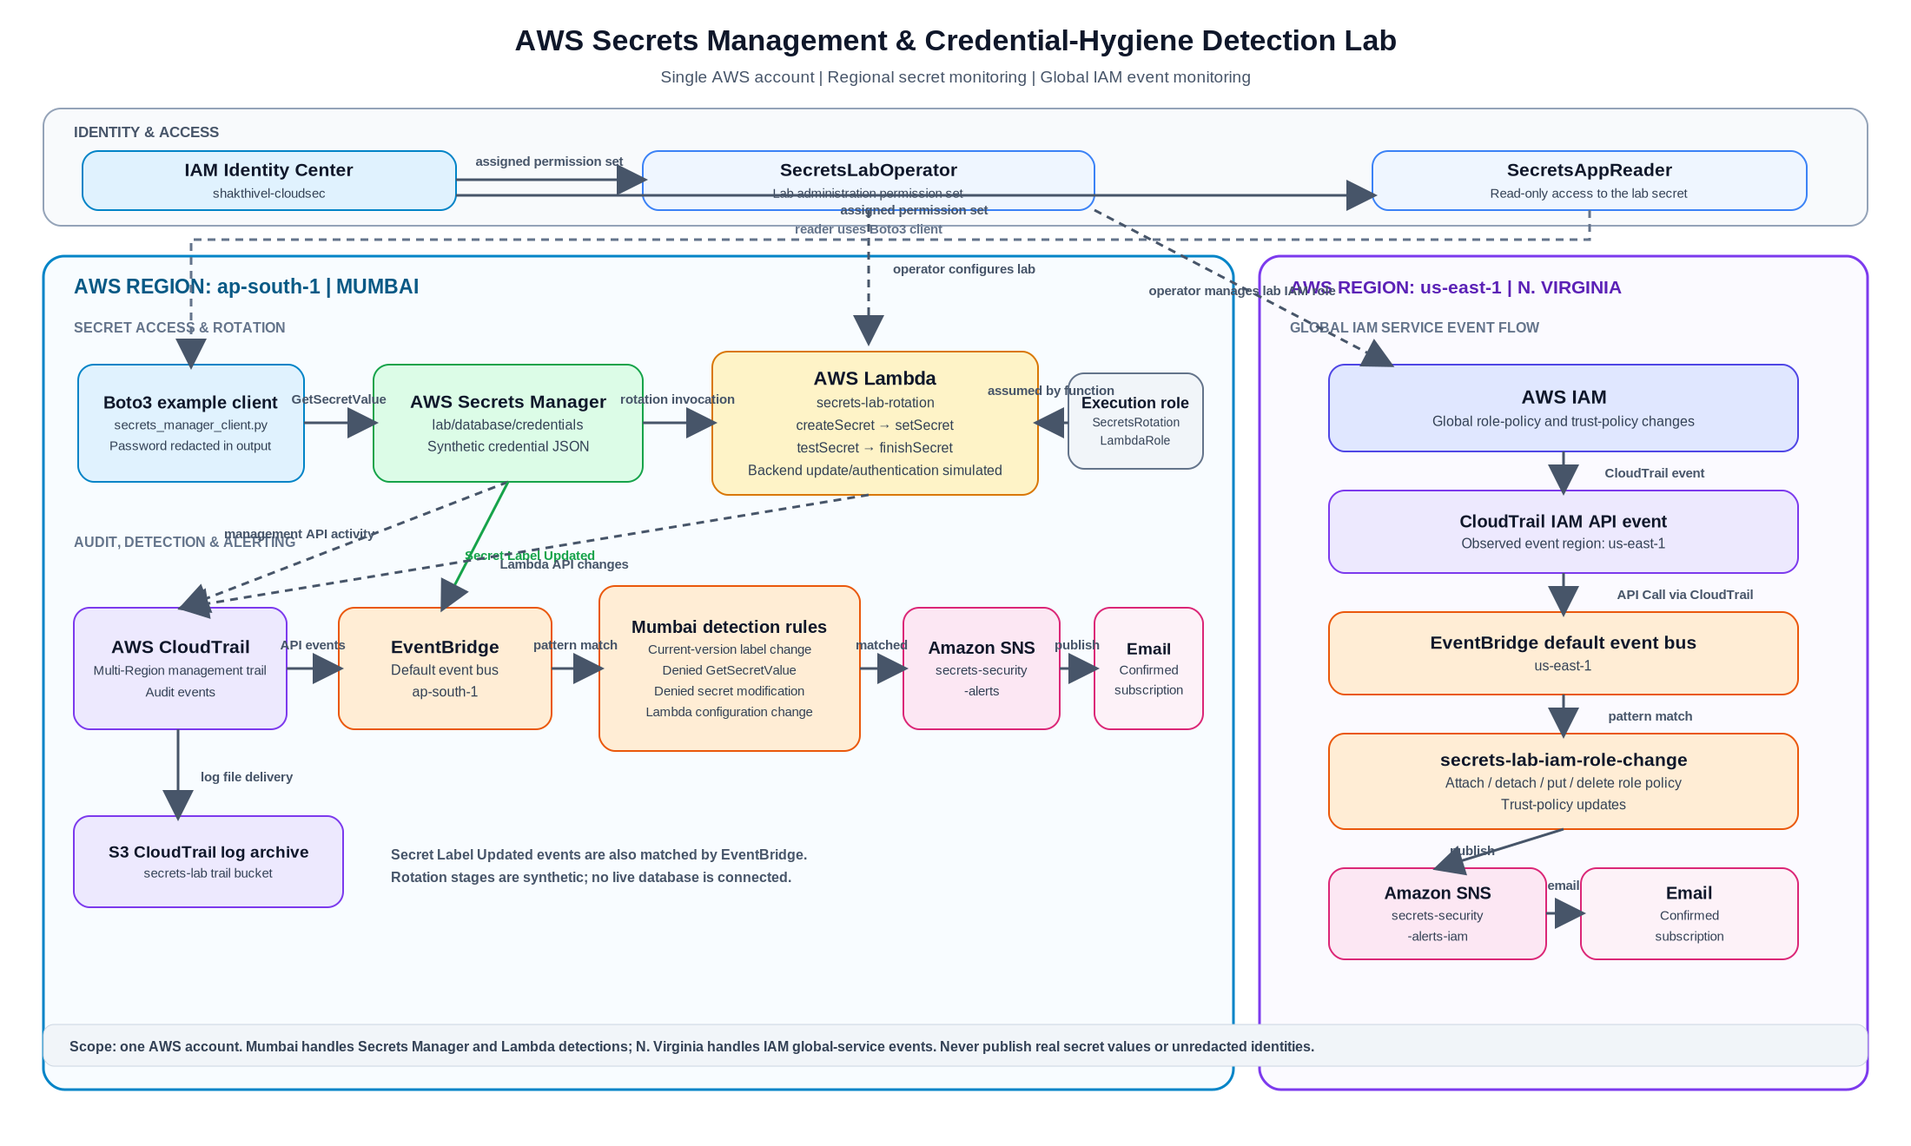
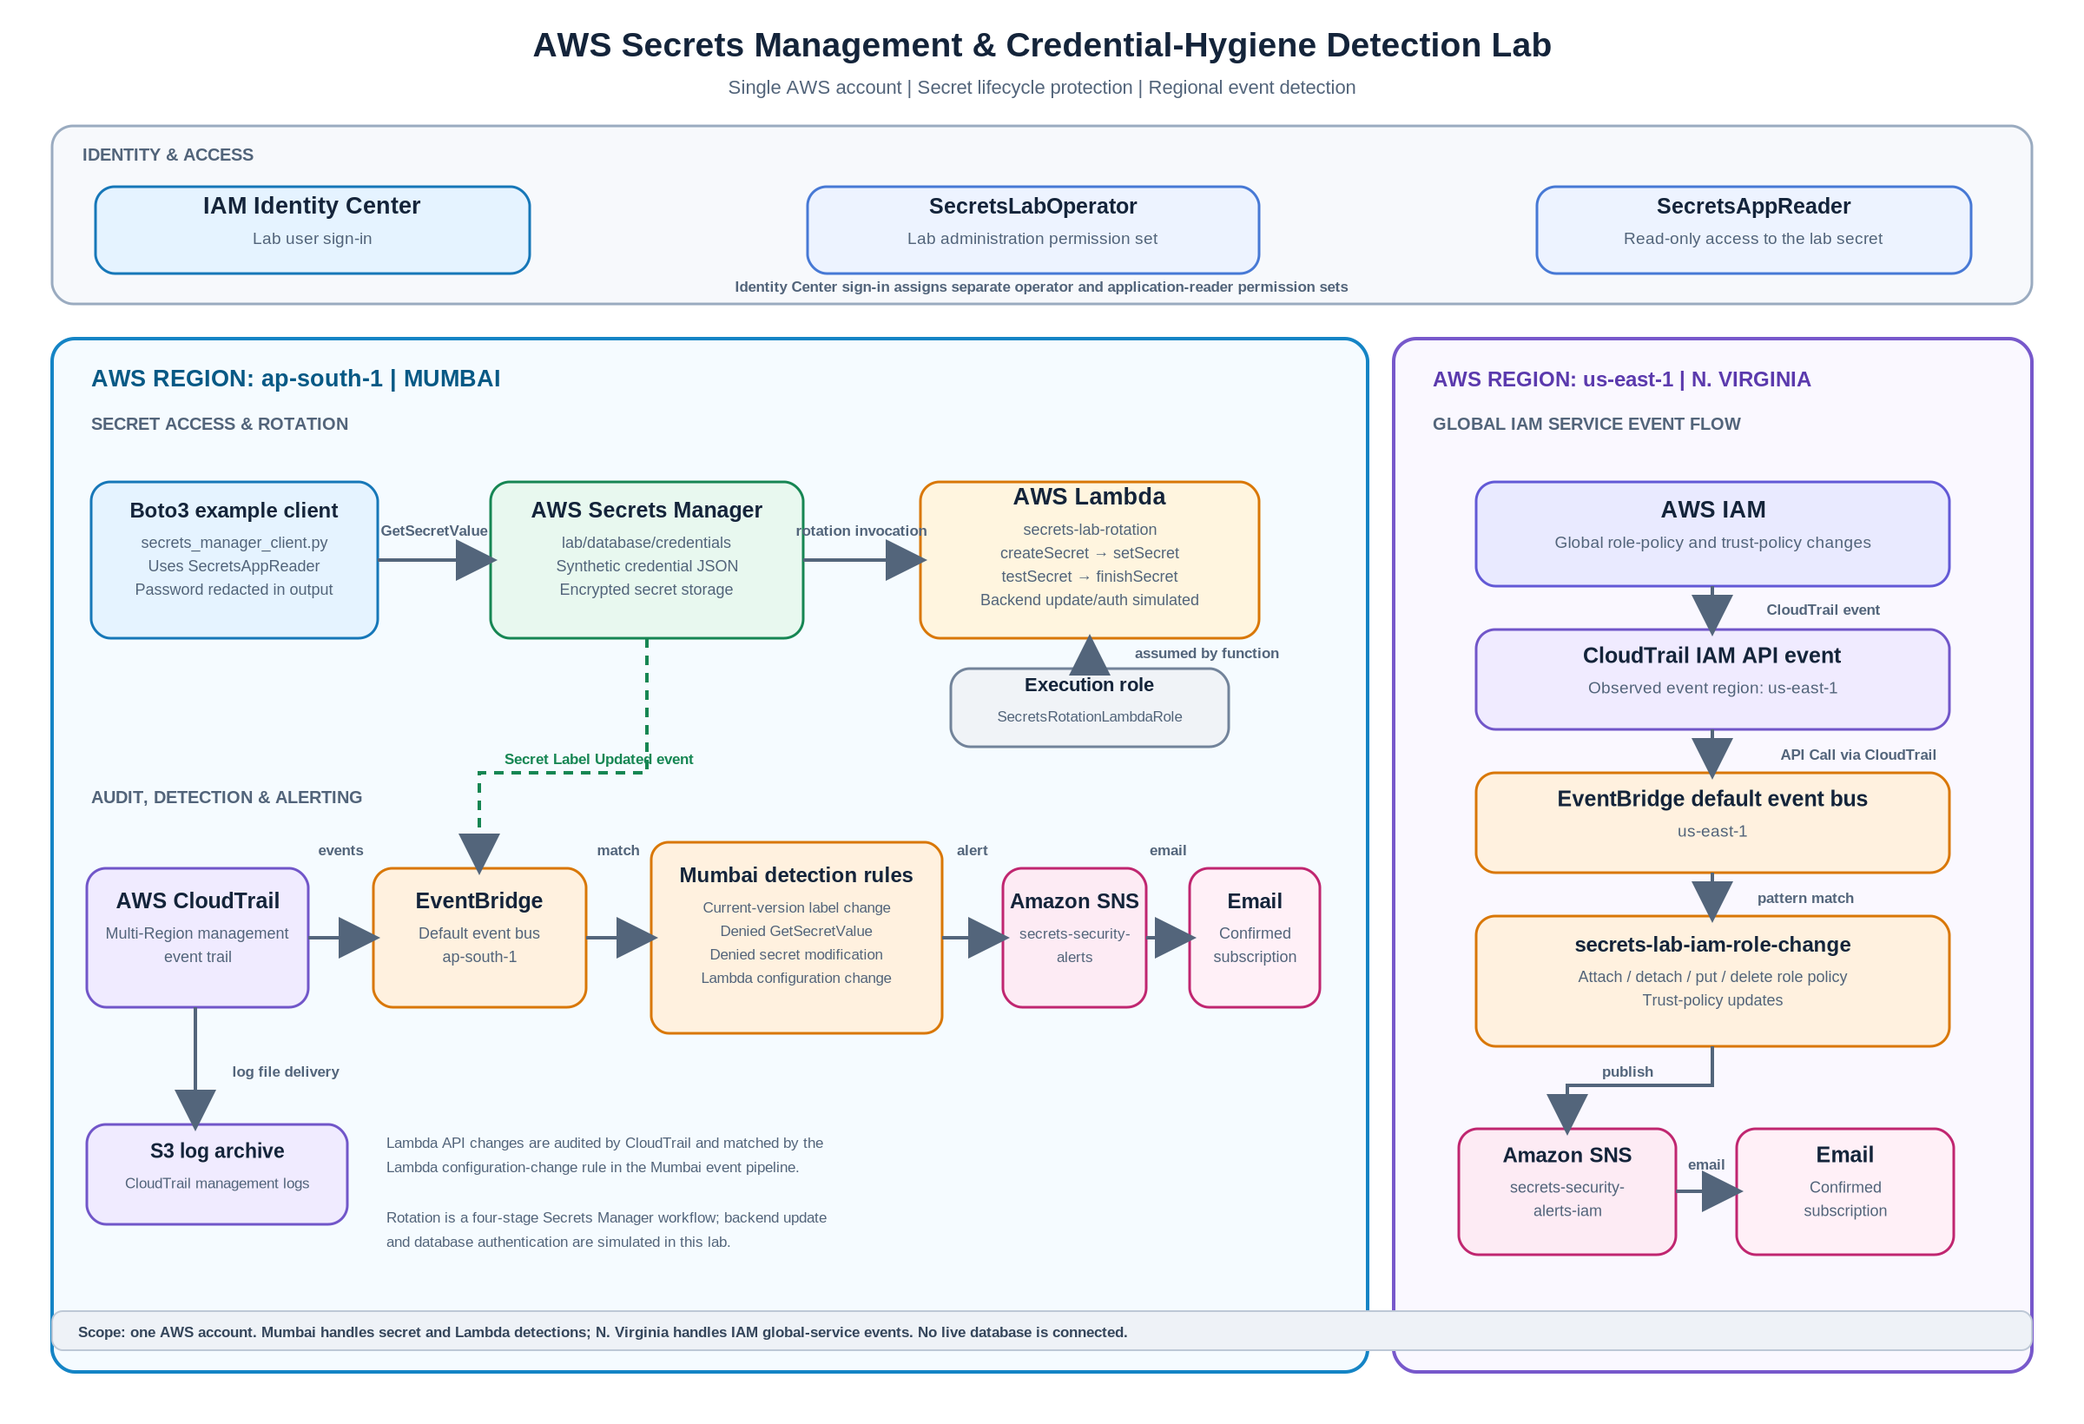
Improve AWS architecture diagram layout

Changed region(s): [[0.0, 0.0932, 0.9891, 0.9629], [0.2473, 0.0, 0.7418, 0.0932], [0.9582, 0.0932, 0.9891, 0.1242]]

diff --git a/docs/render_architecture.py b/docs/render_architecture.py
@@ -2,127 +2,185 @@ from pathlib import Path
 import html
 import cairosvg
 
-OUT = Path(__file__).parent
-W, H = 2200, 1320
+OUT = Path(__file__).resolve().parent
+W, H = 2400, 1640
 parts = []
 
-def esc(s): return html.escape(s)
+NAVY = "#14243a"
+MUTED = "#52647a"
+BLUE = "#1677b8"
+PURPLE = "#7156c9"
+ORANGE = "#d97706"
+GREEN = "#168653"
+PINK = "#c02670"
+LINE = "#53657b"
 
-def rect(x, y, w, h, fill, stroke, radius=18, sw=2):
-    parts.append(f'<rect x="{x}" y="{y}" width="{w}" height="{h}" rx="{radius}" fill="{fill}" stroke="{stroke}" stroke-width="{sw}"/>')
 
-def text(x, y, lines, size=22, color="#0f172a", weight=500, anchor="middle", line_gap=None):
-    if isinstance(lines, str): lines = [lines]
-    if line_gap is None: line_gap = int(size * 1.28)
-    # y is baseline of first line
-    spans = ''.join(f'<tspan x="{x}" dy="{0 if i == 0 else line_gap}">{esc(line)}</tspan>' for i, line in enumerate(lines))
-    parts.append(f'<text x="{x}" y="{y}" text-anchor="{anchor}" font-family="Arial, Helvetica, sans-serif" font-size="{size}" font-weight="{weight}" fill="{color}">{spans}</text>')
+def esc(value):
+    return html.escape(str(value))
 
-def arrow(x1, y1, x2, y2, label=None, color="#475569", dashed=False, label_x=None, label_y=None, width=3):
-    dash = ' stroke-dasharray="9 7"' if dashed else ''
-    parts.append(f'<path d="M{x1},{y1} L{x2},{y2}" fill="none" stroke="{color}" stroke-width="{width}"{dash} marker-end="url(#arrow)"/>')
+
+def text(x, y, value, size=26, color=NAVY, weight=500, anchor="middle"):
+    parts.append(
+        f'<text x="{x}" y="{y}" text-anchor="{anchor}" '
+        f'font-family="Arial, Helvetica, sans-serif" font-size="{size}" '
+        f'font-weight="{weight}" fill="{color}">{esc(value)}</text>'
+    )
+
+
+def multiline(x, y, lines, size=20, color=MUTED, weight=500, gap=29):
+    for index, line in enumerate(lines):
+        text(x, y + index * gap, line, size=size, color=color, weight=weight)
+
+
+def box(x, y, w, h, title, details=(), fill="#ffffff", stroke=BLUE,
+        title_size=27, detail_size=19, radius=22):
+    parts.append(
+        f'<rect x="{x}" y="{y}" width="{w}" height="{h}" rx="{radius}" '
+        f'fill="{fill}" stroke="{stroke}" stroke-width="3"/>'
+    )
+    detail_lines = list(details)
+    if detail_lines:
+        title_y = y + h / 2 - (len(detail_lines) * 15) - 4
+        text(x + w / 2, title_y, title, size=title_size, weight=700)
+        multiline(x + w / 2, title_y + 35, detail_lines, size=detail_size, gap=27)
+    else:
+        text(x + w / 2, y + h / 2 + title_size * 0.35, title,
+             size=title_size, weight=700)
+
+
+def arrow(x1, y1, x2, y2, label=None, color=LINE, dashed=False,
+          label_x=None, label_y=None, width=4):
+    dash = ' stroke-dasharray="11 9"' if dashed else ''
+    parts.append(
+        f'<path d="M{x1},{y1} L{x2},{y2}" fill="none" stroke="{color}" '
+        f'stroke-width="{width}"{dash} marker-end="url(#arrow)"/>'
+    )
     if label:
-        lx = (x1+x2)/2 if label_x is None else label_x
-        ly = (y1+y2)/2 - 10 if label_y is None else label_y
-        text(lx, ly, label, size=15, color=color, weight=600)
+        lx = (x1 + x2) / 2 if label_x is None else label_x
+        ly = (y1 + y2) / 2 - 13 if label_y is None else label_y
+        text(lx, ly, label, size=17, color=color, weight=650)
 
-def node(x,y,w,h,fill,stroke,title,sub=None,title_size=22,sub_size=16):
-    rect(x,y,w,h,fill,stroke)
-    lines=[]
-    if isinstance(title, str): lines=[title]
-    else: lines=list(title)
-    if sub:
-        if isinstance(sub,str): sub=[sub]
-        lines += list(sub)
-    total_h = (len(lines)-1)*int( max(title_size,sub_size)*1.22 )
-    base_y = y + h/2 - total_h/2 + max(title_size,sub_size)*0.35
-    # first lines title, subsequent sub
-    for i,line in enumerate(lines):
-        sz = title_size if i < len(title if isinstance(title,list) else [title]) else sub_size
-        wt = 700 if i < len(title if isinstance(title,list) else [title]) else 450
-        col = "#0f172a" if i < len(title if isinstance(title,list) else [title]) else "#334155"
-        text(x+w/2, base_y + i*int(max(title_size,sub_size)*1.22), line, size=sz, color=col, weight=wt)
+
+def poly_arrow(points, label=None, label_x=None, label_y=None,
+               color=LINE, dashed=True):
+    path = " ".join(("M" if i == 0 else "L") + f"{x},{y}" for i, (x, y) in enumerate(points))
+    dash = ' stroke-dasharray="11 9"' if dashed else ''
+    parts.append(
+        f'<path d="{path}" fill="none" stroke="{color}" stroke-width="4"'
+        f'{dash} marker-end="url(#arrow)"/>'
+    )
+    if label:
+        text(label_x, label_y, label, size=17, color=color, weight=650)
+
 
 parts.append(f'''<svg xmlns="http://www.w3.org/2000/svg" width="{W}" height="{H}" viewBox="0 0 {W} {H}">
 <defs>
- <marker id="arrow" markerWidth="12" markerHeight="12" refX="10" refY="6" orient="auto" markerUnits="strokeWidth"><path d="M0,0 L12,6 L0,12 z" fill="#475569"/></marker>
- <filter id="shadow" x="-10%" y="-10%" width="120%" height="130%"><feDropShadow dx="0" dy="3" stdDeviation="5" flood-color="#0f172a" flood-opacity="0.10"/></filter>
+  <marker id="arrow" markerWidth="12" markerHeight="12" refX="10" refY="6" orient="auto" markerUnits="strokeWidth">
+    <path d="M0,0 L12,6 L0,12 z" fill="{LINE}"/>
+  </marker>
 </defs>
 <rect width="100%" height="100%" fill="#ffffff"/>
 ''')
 
-# Header
-text(W/2, 58, "AWS Secrets Management & Credential-Hygiene Detection Lab", size=34, color="#0f172a", weight=750)
-text(W/2, 95, "Single AWS account  |  Regional secret monitoring  |  Global IAM event monitoring", size=19, color="#475569", weight=500)
+# Title
+text(W / 2, 65, "AWS Secrets Management & Credential-Hygiene Detection Lab", size=39, weight=750)
+text(W / 2, 108, "Single AWS account  |  Secret lifecycle protection  |  Regional event detection", size=22, color=MUTED)
 
-# Identity band
-rect(50, 125, 2100, 135, "#f8fafc", "#94a3b8", radius=20, sw=2)
-text(85, 158, "IDENTITY & ACCESS", size=17, color="#475569", weight=750, anchor="start")
-node(95, 174, 430, 68, "#e0f2fe", "#0284c7", "IAM Identity Center", ["shakthivel-cloudsec"], 21, 15)
-node(740, 174, 520, 68, "#eff6ff", "#3b82f6", "SecretsLabOperator", ["Lab administration permission set"], 21, 15)
-node(1580, 174, 500, 68, "#eff6ff", "#3b82f6", "SecretsAppReader", ["Read-only access to the lab secret"], 21, 15)
-arrow(525, 207, 740, 207, "assigned permission set", label_y=191)
-arrow(525, 225, 1580, 225, "assigned permission set", label_y=247)
+# Identity band: no intersecting identity arrows or personal username.
+parts.append('<rect x="60" y="145" width="2280" height="205" rx="24" fill="#f7f9fc" stroke="#9aabc0" stroke-width="3"/>')
+text(95, 185, "IDENTITY & ACCESS", size=20, color=MUTED, weight=750, anchor="start")
+box(110, 215, 500, 100, "IAM Identity Center", ["Lab user sign-in"], fill="#e5f3ff", stroke=BLUE)
+box(930, 215, 520, 100, "SecretsLabOperator", ["Lab administration permission set"], fill="#edf3ff", stroke="#4779d5", title_size=25)
+box(1770, 215, 500, 100, "SecretsAppReader", ["Read-only access to the lab secret"], fill="#edf3ff", stroke="#4779d5", title_size=25)
+text(1200, 336, "Identity Center sign-in assigns separate operator and application-reader permission sets", size=17, color=MUTED, weight=600)
 
 # Regional panels
-rect(50, 295, 1370, 960, "#f8fcff", "#0284c7", radius=24, sw=3)
-text(85, 338, "AWS REGION: ap-south-1  |  MUMBAI", size=23, color="#075985", weight=750, anchor="start")
-rect(1450, 295, 700, 960, "#fbfaff", "#7c3aed", radius=24, sw=3)
-text(1485, 338, "AWS REGION: us-east-1  |  N. VIRGINIA", size=21, color="#5b21b6", weight=750, anchor="start")
+parts.append('<rect x="60" y="390" width="1515" height="1190" rx="26" fill="#f5fbff" stroke="#1484c5" stroke-width="4"/>')
+parts.append('<rect x="1605" y="390" width="735" height="1190" rx="26" fill="#faf8ff" stroke="#7758cb" stroke-width="4"/>')
+text(105, 445, "AWS REGION: ap-south-1  |  MUMBAI", size=27, color="#075985", weight=750, anchor="start")
+text(1650, 445, "AWS REGION: us-east-1  |  N. VIRGINIA", size=24, color="#5b3aad", weight=750, anchor="start")
 
-# Mumbai top lane: access + rotation
-text(85, 383, "SECRET ACCESS & ROTATION", size=16, color="#64748b", weight=750, anchor="start")
-node(90, 420, 260, 135, "#e0f2fe", "#0284c7", "Boto3 example client", ["secrets_manager_client.py", "Password redacted in output"], 20, 15)
-node(430, 420, 310, 135, "#dcfce7", "#16a34a", "AWS Secrets Manager", ["lab/database/credentials", "Synthetic credential JSON"], 21, 16)
-node(820, 405, 375, 165, "#fef3c7", "#d97706", "AWS Lambda", ["secrets-lab-rotation", "createSecret → setSecret", "testSecret → finishSecret", "Backend update/authentication simulated"], 22, 16)
-node(1230, 430, 155, 110, "#f1f5f9", "#64748b", "Execution role", ["SecretsRotation", "LambdaRole"], 18, 14)
-arrow(350, 487, 430, 487, "GetSecretValue", label_y=465)
-arrow(740, 487, 820, 487, "rotation invocation", label_y=465)
-arrow(1230, 487, 1195, 487, "assumed by function", dashed=True, label_x=1210, label_y=455)
-# operator dotted association
-arrow(1000, 242, 1000, 393, "operator configures lab", dashed=True, label_x=1110, label_y=315)
-parts.append('<path d="M1830,242 L1830,276 L220,276 L220,420" fill="none" stroke="#64748b" stroke-width="3" stroke-dasharray="9 7" marker-end="url(#arrow)"/>')
-text(1000, 269, "reader uses Boto3 client", size=15, color="#64748b", weight=600)
+# Mumbai: secret lifecycle
+text(105, 495, "SECRET ACCESS & ROTATION", size=20, color=MUTED, weight=750, anchor="start")
+box(105, 555, 330, 180, "Boto3 example client",
+    ["secrets_manager_client.py", "Uses SecretsAppReader", "Password redacted in output"],
+    fill="#e5f3ff", stroke=BLUE, title_size=24, detail_size=18)
+box(565, 555, 360, 180, "AWS Secrets Manager",
+    ["lab/database/credentials", "Synthetic credential JSON", "Encrypted secret storage"],
+    fill="#e8f8ef", stroke=GREEN, title_size=25, detail_size=18)
+box(1060, 555, 390, 180, "AWS Lambda",
+    ["secrets-lab-rotation", "createSecret → setSecret", "testSecret → finishSecret", "Backend update/auth simulated"],
+    fill="#fff5df", stroke=ORANGE, title_size=27, detail_size=18)
+arrow(435, 645, 565, 645, "GetSecretValue", label_y=617)
+arrow(925, 645, 1060, 645, "rotation invocation", label_y=617)
+box(1095, 770, 320, 90, "Execution role", ["SecretsRotationLambdaRole"],
+    fill="#f0f3f7", stroke="#72839a", title_size=22, detail_size=17)
+arrow(1255, 770, 1255, 738, "assumed by function", dashed=True, label_x=1390, label_y=758)
 
-# Mumbai monitoring lane
-text(85, 630, "AUDIT, DETECTION & ALERTING", size=16, color="#64748b", weight=750, anchor="start")
-node(85, 700, 245, 140, "#ede9fe", "#7c3aed", "AWS CloudTrail", ["Multi-Region management trail", "Audit events"], 21, 15)
-node(390, 700, 245, 140, "#ffedd5", "#ea580c", "EventBridge", ["Default event bus", "ap-south-1"], 21, 16)
-node(690, 675, 300, 190, "#ffedd5", "#ea580c", "Mumbai detection rules", ["Current-version label change", "Denied GetSecretValue", "Denied secret modification", "Lambda configuration change"], 20, 15)
-node(1040, 700, 180, 140, "#fce7f3", "#db2777", "Amazon SNS", ["secrets-security", "-alerts"], 20, 15)
-node(1260, 700, 125, 140, "#fdf2f8", "#db2777", "Email", ["Confirmed", "subscription"], 19, 15)
-arrow(330, 770, 390, 770, "API events", label_y=748)
-arrow(635, 770, 690, 770, "pattern match", label_y=748)
-arrow(990, 770, 1040, 770, "matched", label_y=748)
-arrow(1220, 770, 1260, 770, "publish", label_y=748)
-# CloudTrail and native service event paths
-arrow(585, 555, 210, 700, "management API activity", dashed=True, label_x=345, label_y=620)
-arrow(585, 555, 510, 700, "Secret Label Updated", color="#16a34a", label_x=610, label_y=645)
-arrow(1000, 570, 210, 700, "Lambda API changes", dashed=True, label_x=650, label_y=655)
-# S3 archive beneath CloudTrail
-node(85, 940, 310, 105, "#ede9fe", "#7c3aed", "S3 CloudTrail log archive", ["secrets-lab trail bucket"], 19, 15)
-arrow(205, 840, 205, 940, "log file delivery", label_x=285, label_y=900)
-text(450, 990, ["Secret Label Updated events are also matched by EventBridge.", "Rotation stages are synthetic; no live database is connected."], size=16, color="#475569", weight=550, anchor="start", line_gap=26)
+# Mumbai: monitoring pipeline
+text(105, 925, "AUDIT, DETECTION & ALERTING", size=20, color=MUTED, weight=750, anchor="start")
+box(100, 1000, 255, 160, "AWS CloudTrail",
+    ["Multi-Region management", "event trail"], fill="#f0ebff", stroke=PURPLE, title_size=25, detail_size=18)
+box(430, 1000, 245, 160, "EventBridge",
+    ["Default event bus", "ap-south-1"], fill="#fff1df", stroke=ORANGE, title_size=25, detail_size=18)
+box(750, 970, 335, 220, "Mumbai detection rules",
+    ["Current-version label change", "Denied GetSecretValue", "Denied secret modification", "Lambda configuration change"],
+    fill="#fff1df", stroke=ORANGE, title_size=24, detail_size=17, radius=20)
+box(1155, 1000, 165, 160, "Amazon SNS",
+    ["secrets-security-", "alerts"], fill="#fdebf4", stroke=PINK, title_size=24, detail_size=17)
+box(1370, 1000, 150, 160, "Email",
+    ["Confirmed", "subscription"], fill="#fff0f7", stroke=PINK, title_size=24, detail_size=18)
+arrow(355, 1080, 430, 1080, "events", label_y=985)
+arrow(675, 1080, 750, 1080, "match", label_y=985)
+arrow(1085, 1080, 1155, 1080, "alert", label_y=985)
+arrow(1320, 1080, 1370, 1080, "email", label_y=985)
 
-# IAM Virginia vertical lane
-text(1485, 383, "GLOBAL IAM SERVICE EVENT FLOW", size=16, color="#64748b", weight=750, anchor="start")
-node(1530, 420, 540, 100, "#e0e7ff", "#4f46e5", "AWS IAM", ["Global role-policy and trust-policy changes"], 22, 16)
-node(1530, 565, 540, 95, "#ede9fe", "#7c3aed", "CloudTrail IAM API event", ["Observed event region: us-east-1"], 20, 16)
-node(1530, 705, 540, 95, "#ffedd5", "#ea580c", "EventBridge default event bus", ["us-east-1"], 21, 16)
-node(1530, 845, 540, 110, "#ffedd5", "#ea580c", "secrets-lab-iam-role-change", ["Attach / detach / put / delete role policy", "Trust-policy updates"], 21, 16)
-node(1530, 1000, 250, 105, "#fce7f3", "#db2777", "Amazon SNS", ["secrets-security", "-alerts-iam"], 20, 15)
-node(1820, 1000, 250, 105, "#fdf2f8", "#db2777", "Email", ["Confirmed", "subscription"], 20, 15)
-arrow(1800, 520, 1800, 565, "CloudTrail event", label_x=1905, label_y=550)
-arrow(1800, 660, 1800, 705, "API Call via CloudTrail", label_x=1940, label_y=690)
-arrow(1800, 800, 1800, 845, "pattern match", label_x=1900, label_y=830)
-arrow(1800, 955, 1655, 1000, "publish", label_x=1695, label_y=985)
-arrow(1780, 1052, 1820, 1052, "email", label_y=1025)
-arrow(1260, 242, 1600, 420, "operator manages lab IAM role", dashed=True, label_x=1430, label_y=340)
+# CloudTrail archive and clear native event path.
+box(100, 1295, 300, 115, "S3 log archive",
+    ["CloudTrail management logs"], fill="#f0ebff", stroke=PURPLE, title_size=23, detail_size=17)
+arrow(225, 1160, 225, 1295, "log file delivery", label_x=330, label_y=1240)
+poly_arrow([(745, 735), (745, 890), (552, 890), (552, 1000)],
+           label="Secret Label Updated event", label_x=690, label_y=880,
+           color=GREEN, dashed=True)
+text(445, 1322, "Lambda API changes are audited by CloudTrail and matched by the", size=17, color=MUTED, anchor="start")
+text(445, 1350, "Lambda configuration-change rule in the Mumbai event pipeline.", size=17, color=MUTED, anchor="start")
+text(445, 1408, "Rotation is a four-stage Secrets Manager workflow; backend update", size=17, color=MUTED, anchor="start")
+text(445, 1436, "and database authentication are simulated in this lab.", size=17, color=MUTED, anchor="start")
 
-# Footer note / legend
-rect(50, 1180, 2100, 48, "#f1f5f9", "#cbd5e1", radius=12, sw=1)
-text(80, 1211, "Scope: one AWS account. Mumbai handles Secrets Manager and Lambda detections; N. Virginia handles IAM global-service events. Never publish real secret values or unredacted identities.", size=16, color="#334155", weight=550, anchor="start")
+# Virginia: global IAM detection, vertical and uncluttered.
+text(1650, 495, "GLOBAL IAM SERVICE EVENT FLOW", size=20, color=MUTED, weight=750, anchor="start")
+box(1700, 555, 545, 120, "AWS IAM",
+    ["Global role-policy and trust-policy changes"], fill="#e9eaff", stroke="#6259d6", title_size=27, detail_size=19)
+box(1700, 725, 545, 115, "CloudTrail IAM API event",
+    ["Observed event region: us-east-1"], fill="#f0ebff", stroke=PURPLE, title_size=25, detail_size=19)
+box(1700, 890, 545, 115, "EventBridge default event bus",
+    ["us-east-1"], fill="#fff1df", stroke=ORANGE, title_size=25, detail_size=19)
+box(1700, 1055, 545, 150, "secrets-lab-iam-role-change",
+    ["Attach / detach / put / delete role policy", "Trust-policy updates"],
+    fill="#fff1df", stroke=ORANGE, title_size=24, detail_size=18)
+box(1680, 1300, 250, 145, "Amazon SNS",
+    ["secrets-security-", "alerts-iam"], fill="#fdebf4", stroke=PINK, title_size=24, detail_size=18)
+box(2000, 1300, 250, 145, "Email",
+    ["Confirmed", "subscription"], fill="#fff0f7", stroke=PINK, title_size=25, detail_size=18)
+arrow(1972, 675, 1972, 725, "CloudTrail event", label_x=2100, label_y=708)
+arrow(1972, 840, 1972, 890, "API Call via CloudTrail", label_x=2140, label_y=875)
+arrow(1972, 1005, 1972, 1055, "pattern match", label_x=2080, label_y=1040)
+poly_arrow([(1972, 1205), (1972, 1250), (1805, 1250), (1805, 1300)],
+           label="publish", label_x=1875, label_y=1240, dashed=False)
+arrow(1930, 1372, 2000, 1372, "email", label_y=1347)
+
+# Footer
+parts.append('<rect x="60" y="1510" width="2280" height="45" rx="12" fill="#eef2f7" stroke="#bdc8d6" stroke-width="2"/>')
+text(90, 1540,
+     "Scope: one AWS account. Mumbai handles secret and Lambda detections; N. Virginia handles IAM global-service events. No live database is connected.",
+     size=17, color="#35465b", weight=600, anchor="start")
 parts.append('</svg>')
+
 svg = ''.join(parts)
-(OUT / 'architecture.svg').write_text(svg, encoding='utf-8')
-cairosvg.svg2png(bytestring=svg.encode(), write_to=str(OUT / 'architecture.png'), output_width=W, output_height=H)
+svg_path = OUT / "architecture.svg"
+png_path = OUT / "architecture.png"
+svg_path.write_text(svg, encoding="utf-8")
+cairosvg.svg2png(bytestring=svg.encode("utf-8"), write_to=str(png_path), output_width=W, output_height=H)
+print(f"Generated {png_path}")
+print(f"Generated {svg_path} (local source; do not commit unless desired)")
